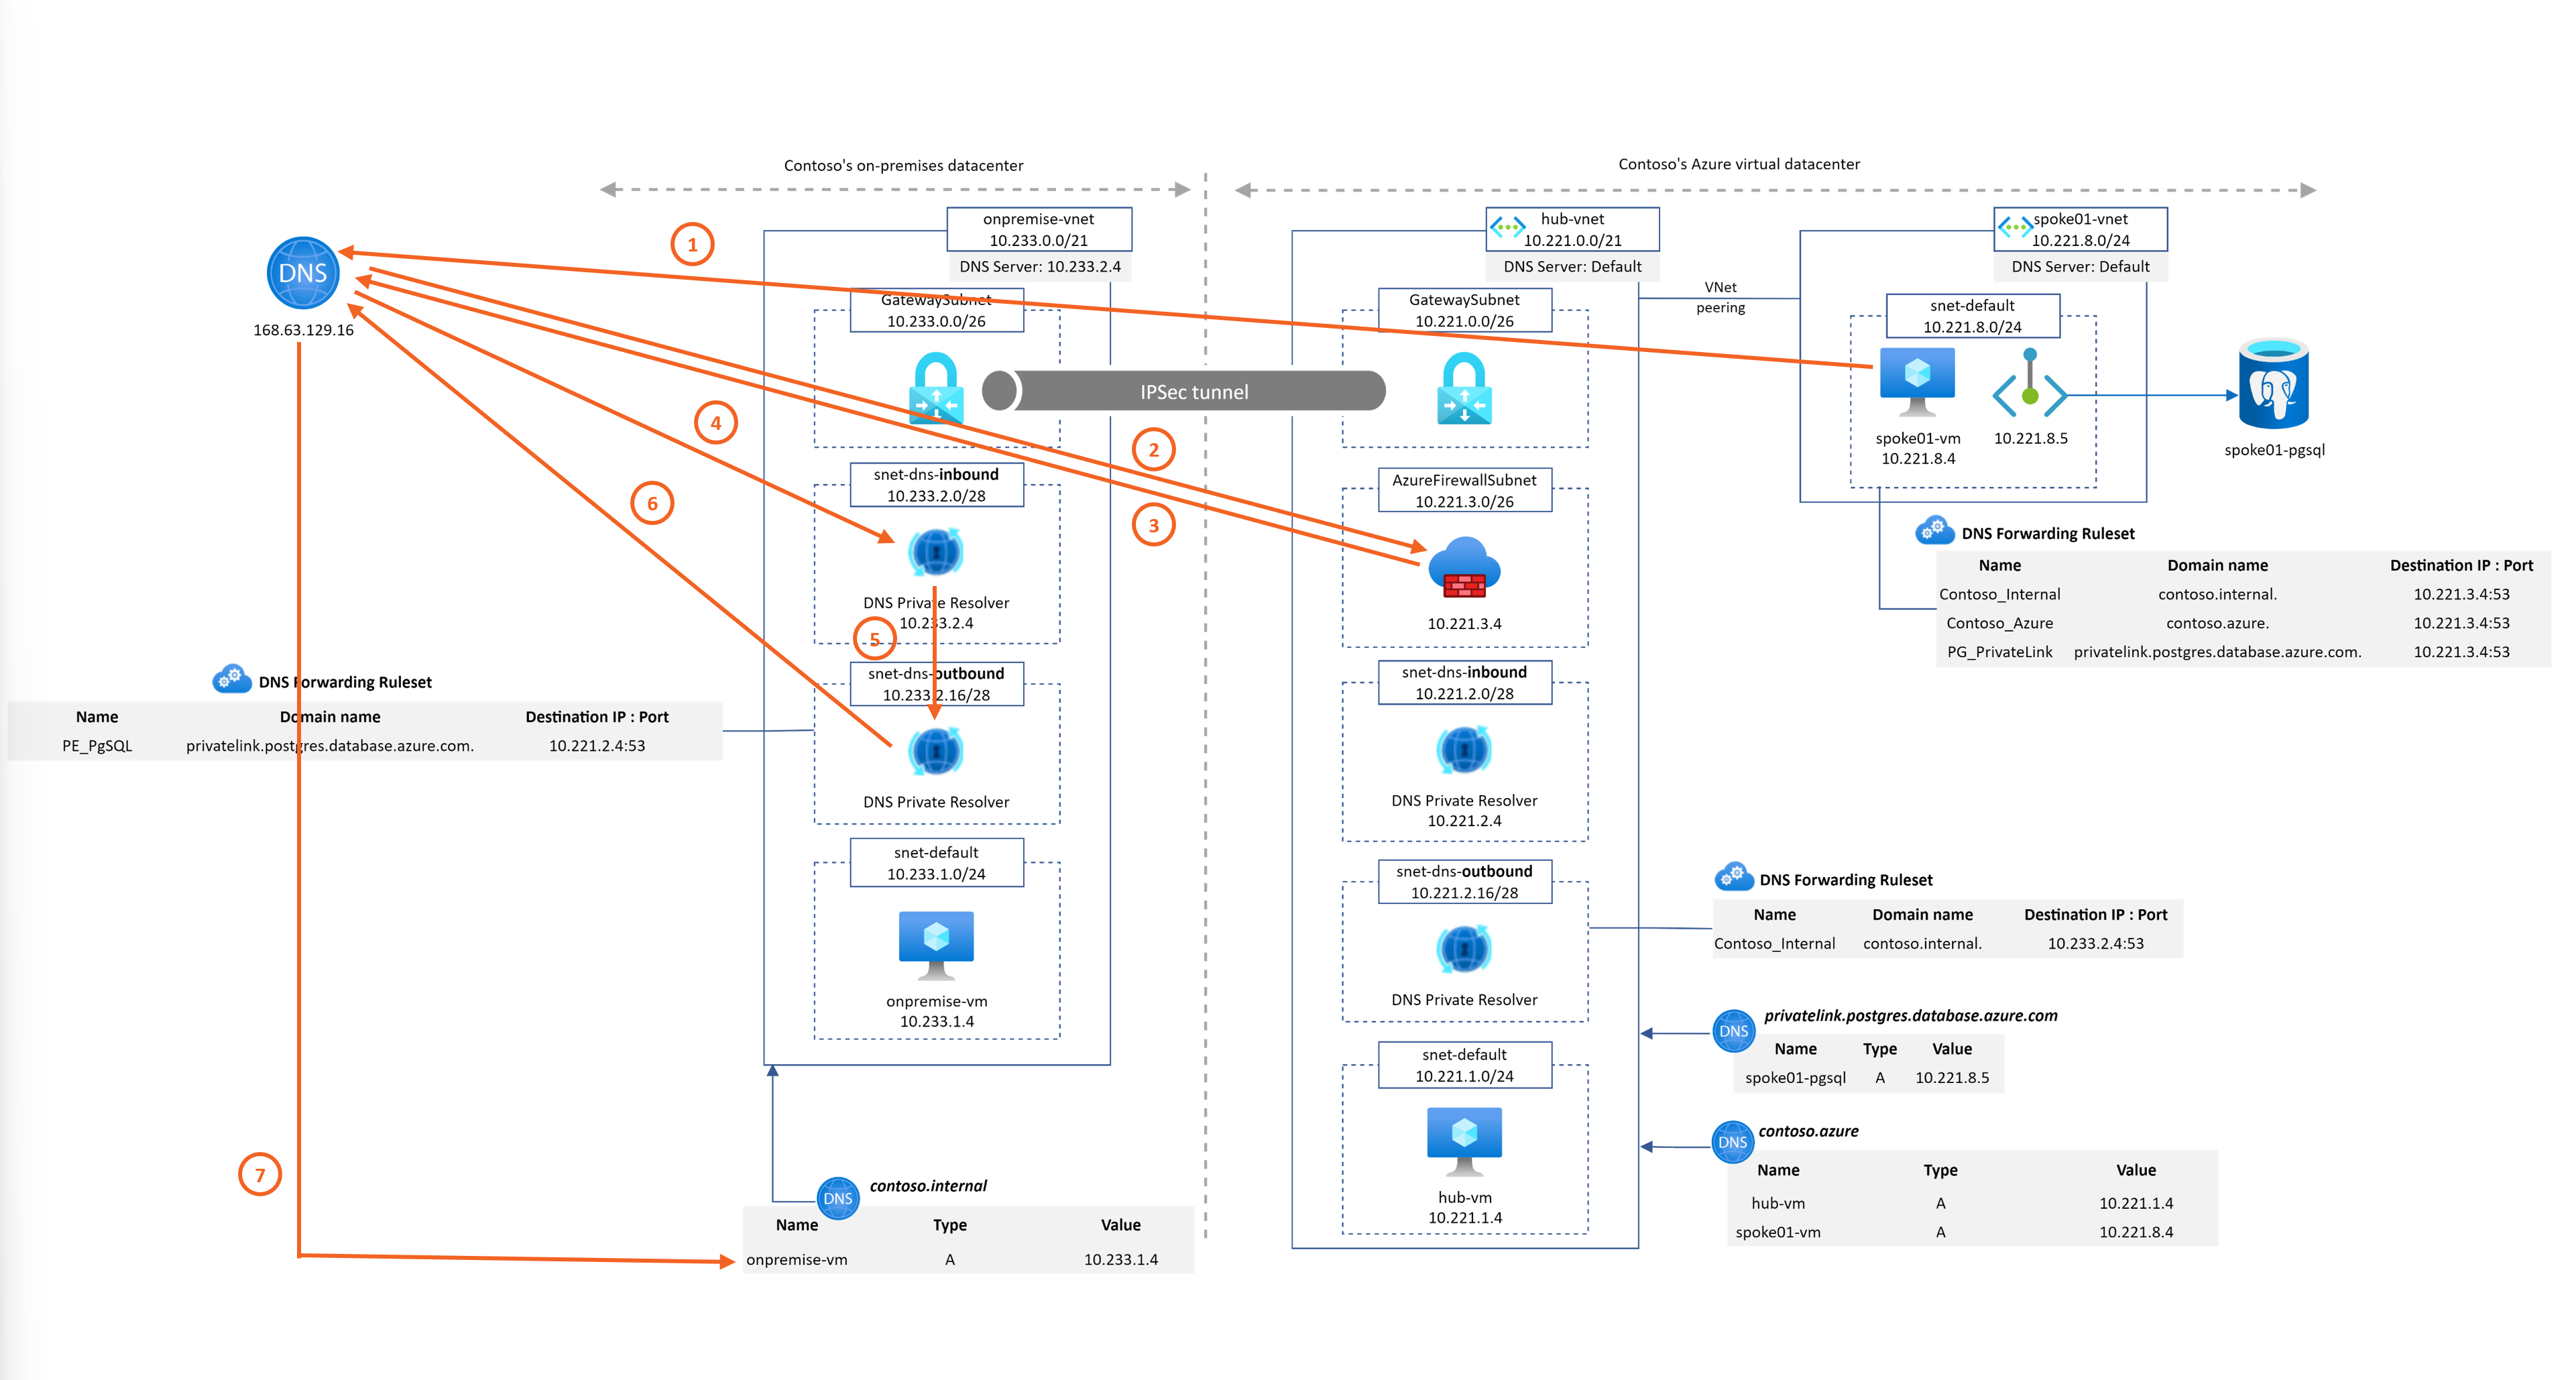
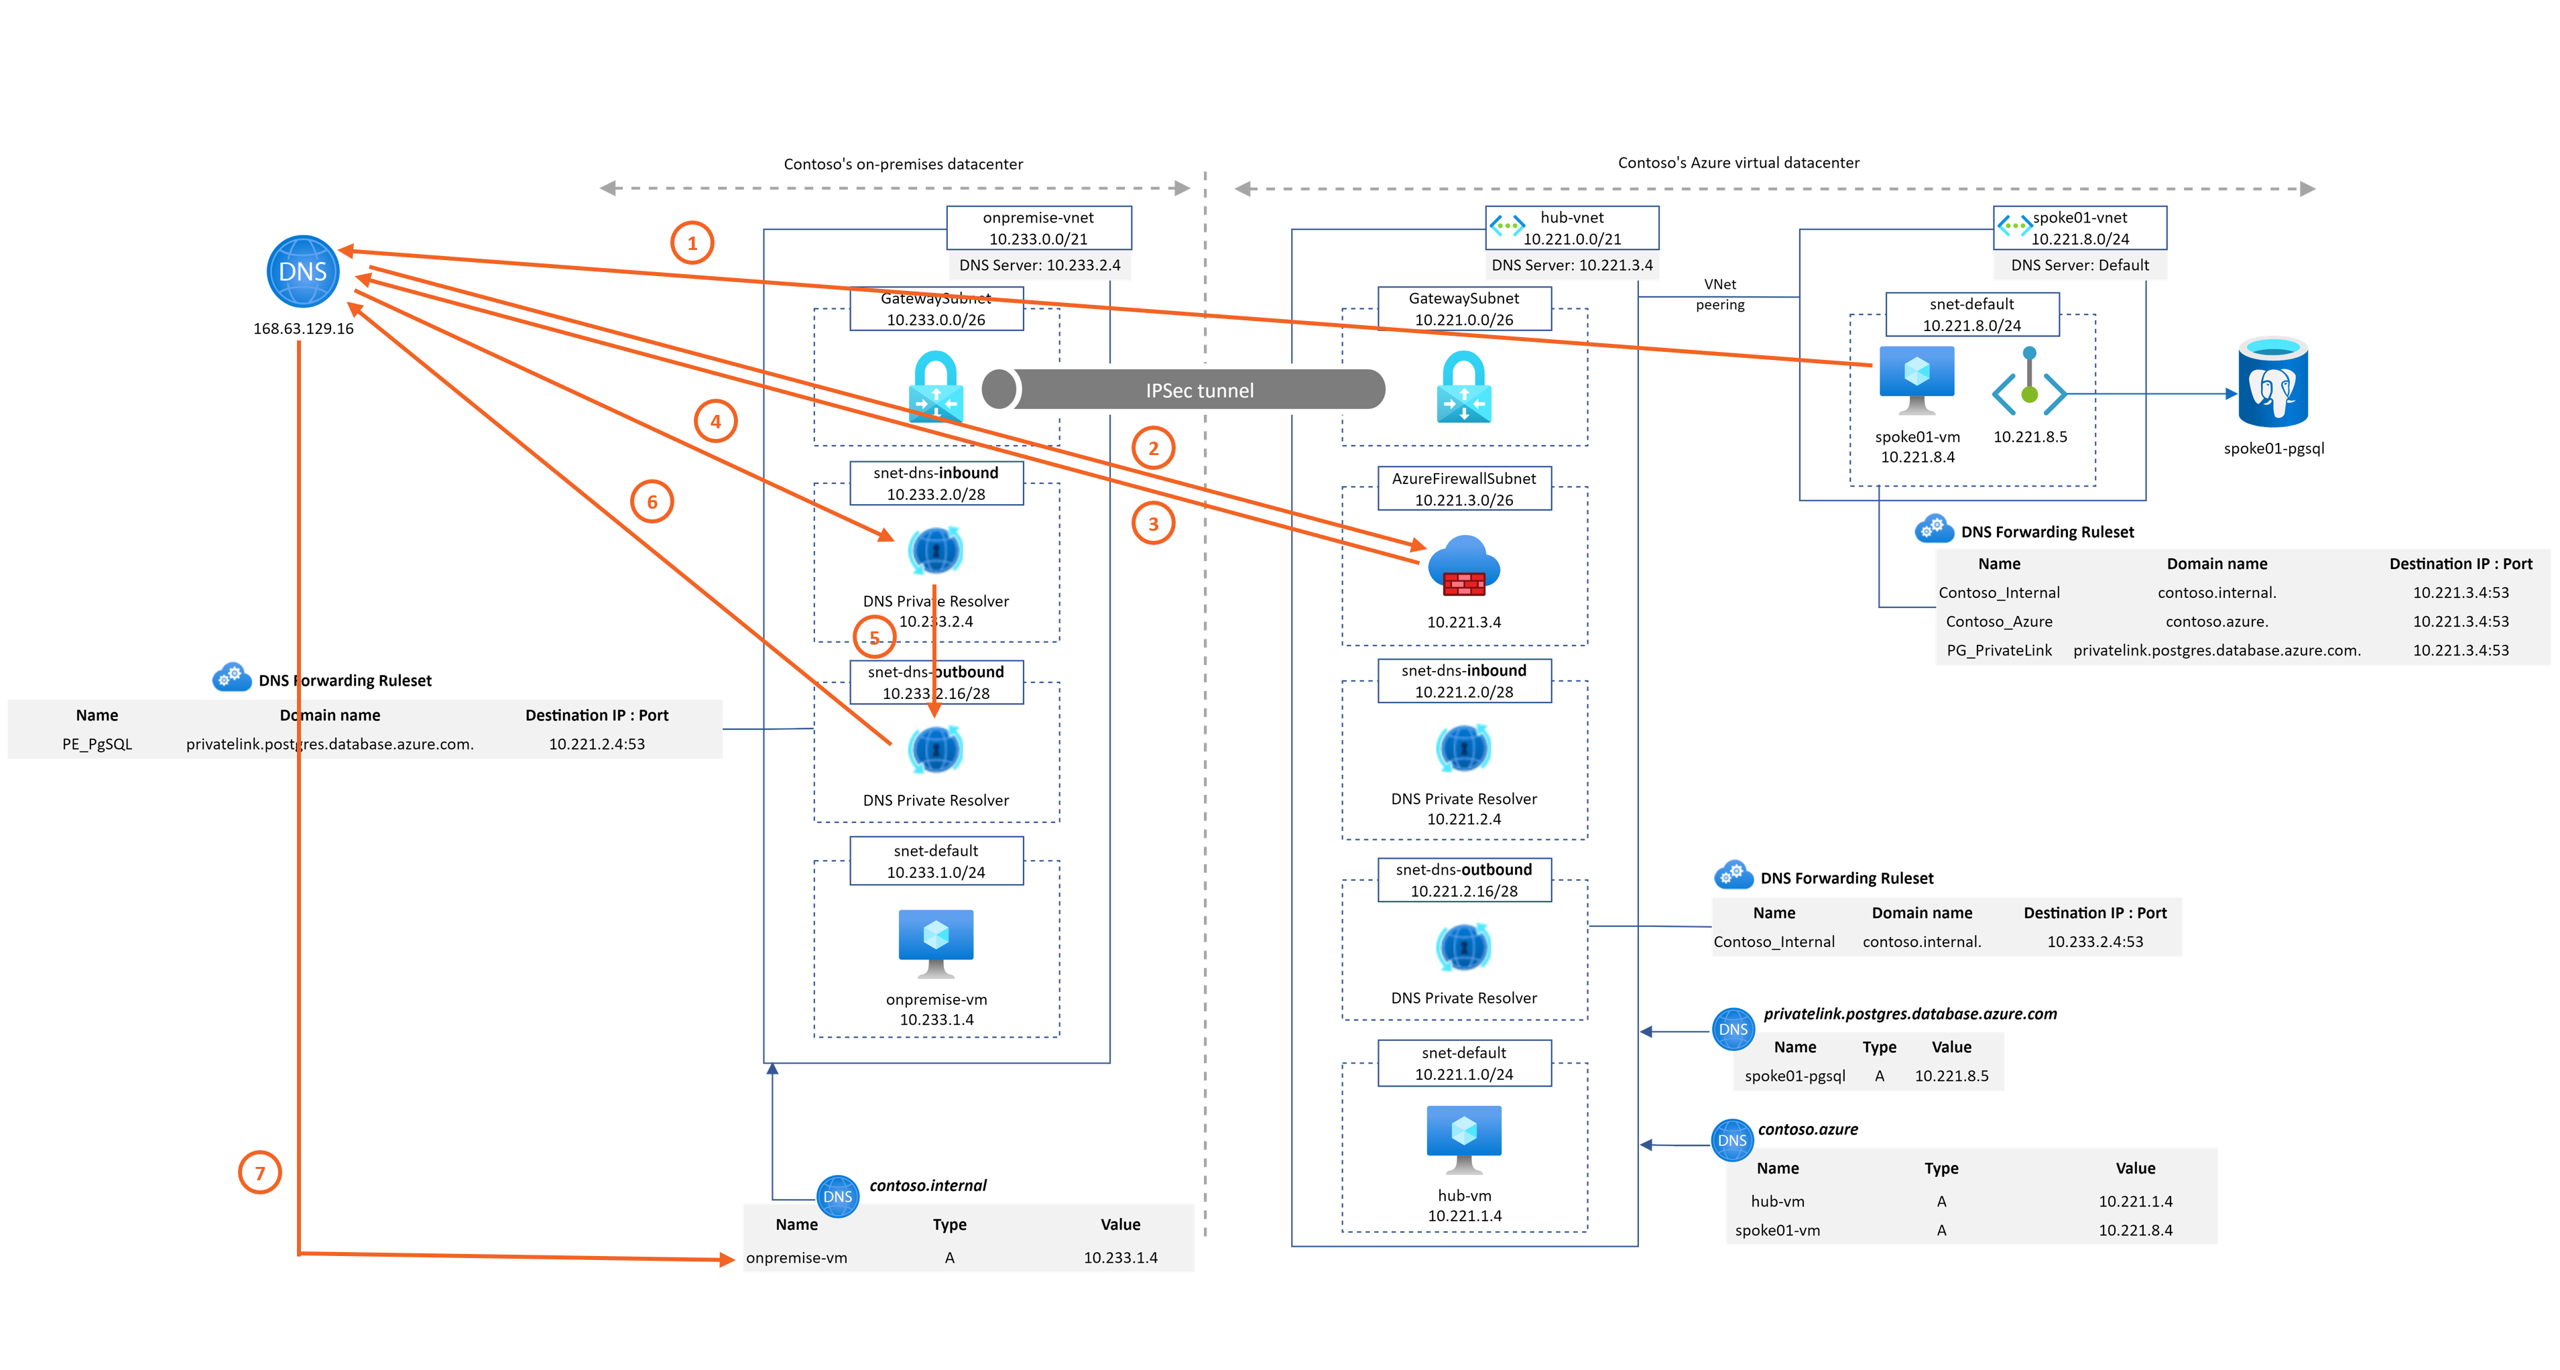
More details around Azure FW architecture setup

diff --git a/README.md b/README.md
@@ -238,7 +238,7 @@ In the Azure Portal, deploy a new Azure Firewall instance in the hub-vnet. A sub
 Your Azure Firewall instance will take about 10 minutes to deploy. When the deployment completes, go to the new firewall's overview tile and take note of its *private* IP address. 
 
 
-### Task 2: Configure Azure Firewall DNS proxy
+## Task 2: Configure Azure Firewall DNS proxy
 
 Configure Azure Firewall as a DNS Proxy: all requests will be forward to DNS Private Resolver Inbound IP address `10.221.2.4`:
 
@@ -266,7 +266,11 @@ Here is this global architecture redesign
 
 ![image](images/architecture-fw-and-ruleset.png)
 
-As you can see, we know have 2 different rulesets with different rules: one for the hub and one for the spoke(s).
+As you can see, we now have 2 different rulesets with different rules: one for the hub and one for the spoke(s):
+- Spoke DNS Forwarding Ruleset: make sure that every DNS requests coming from the spoke vnets go through the Azure Firewall
+- Hub DNS Forwarding Ruleset: as *contoso.azure* and *privatelink.postgresql.database.azure.com* Private DNS zones are already attached to the hub and are resolvable, no forwarding rules are required
+
+We can also notice that the DNS settings for the Hub Vnet is pointing to the IP address of the Azure Firewall instead of *Default (Azure provided)*. From a DNS standpoint, both configurations are valid but the first option has the advantage to send all DNS queries originating from the Hub Vnet into the Azure FW and to be able to see the associated logs.
 
 First, let's remove unnecessary rules from the hub Forwarding Ruleset
 
@@ -351,6 +355,8 @@ AzureDiagnostics
 - Delete the resource group onpremise-rg
 - Delete the resource group hub-rg
 - Delete the resource group spoke01-rg
+
+  > As of now, there is a bug where you will not be able to remove vnets that have a vnet link in a DNS Rorwarding Ruleset. Please remove Vnet links before removing the resource groups.
 
 Thank you for participating in this MicroHack!
 
